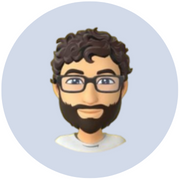
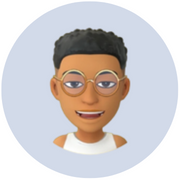
mudou icone2

Changed region(s): [[0.2778, 0.1389, 0.75, 0.8611]]

diff --git a/index.html b/index.html
@@ -43,7 +43,7 @@
             <div class="alunos">
                 <img class="aluno_foto" src="icone2.png"/>
                 <span class="aluno_nomes">Gabriel Rodrigo</span>
-                <span class="aluno_ra"></span>
+                <span class="aluno_ra">00216894</span>
             </div>
         </div>
     </div>
